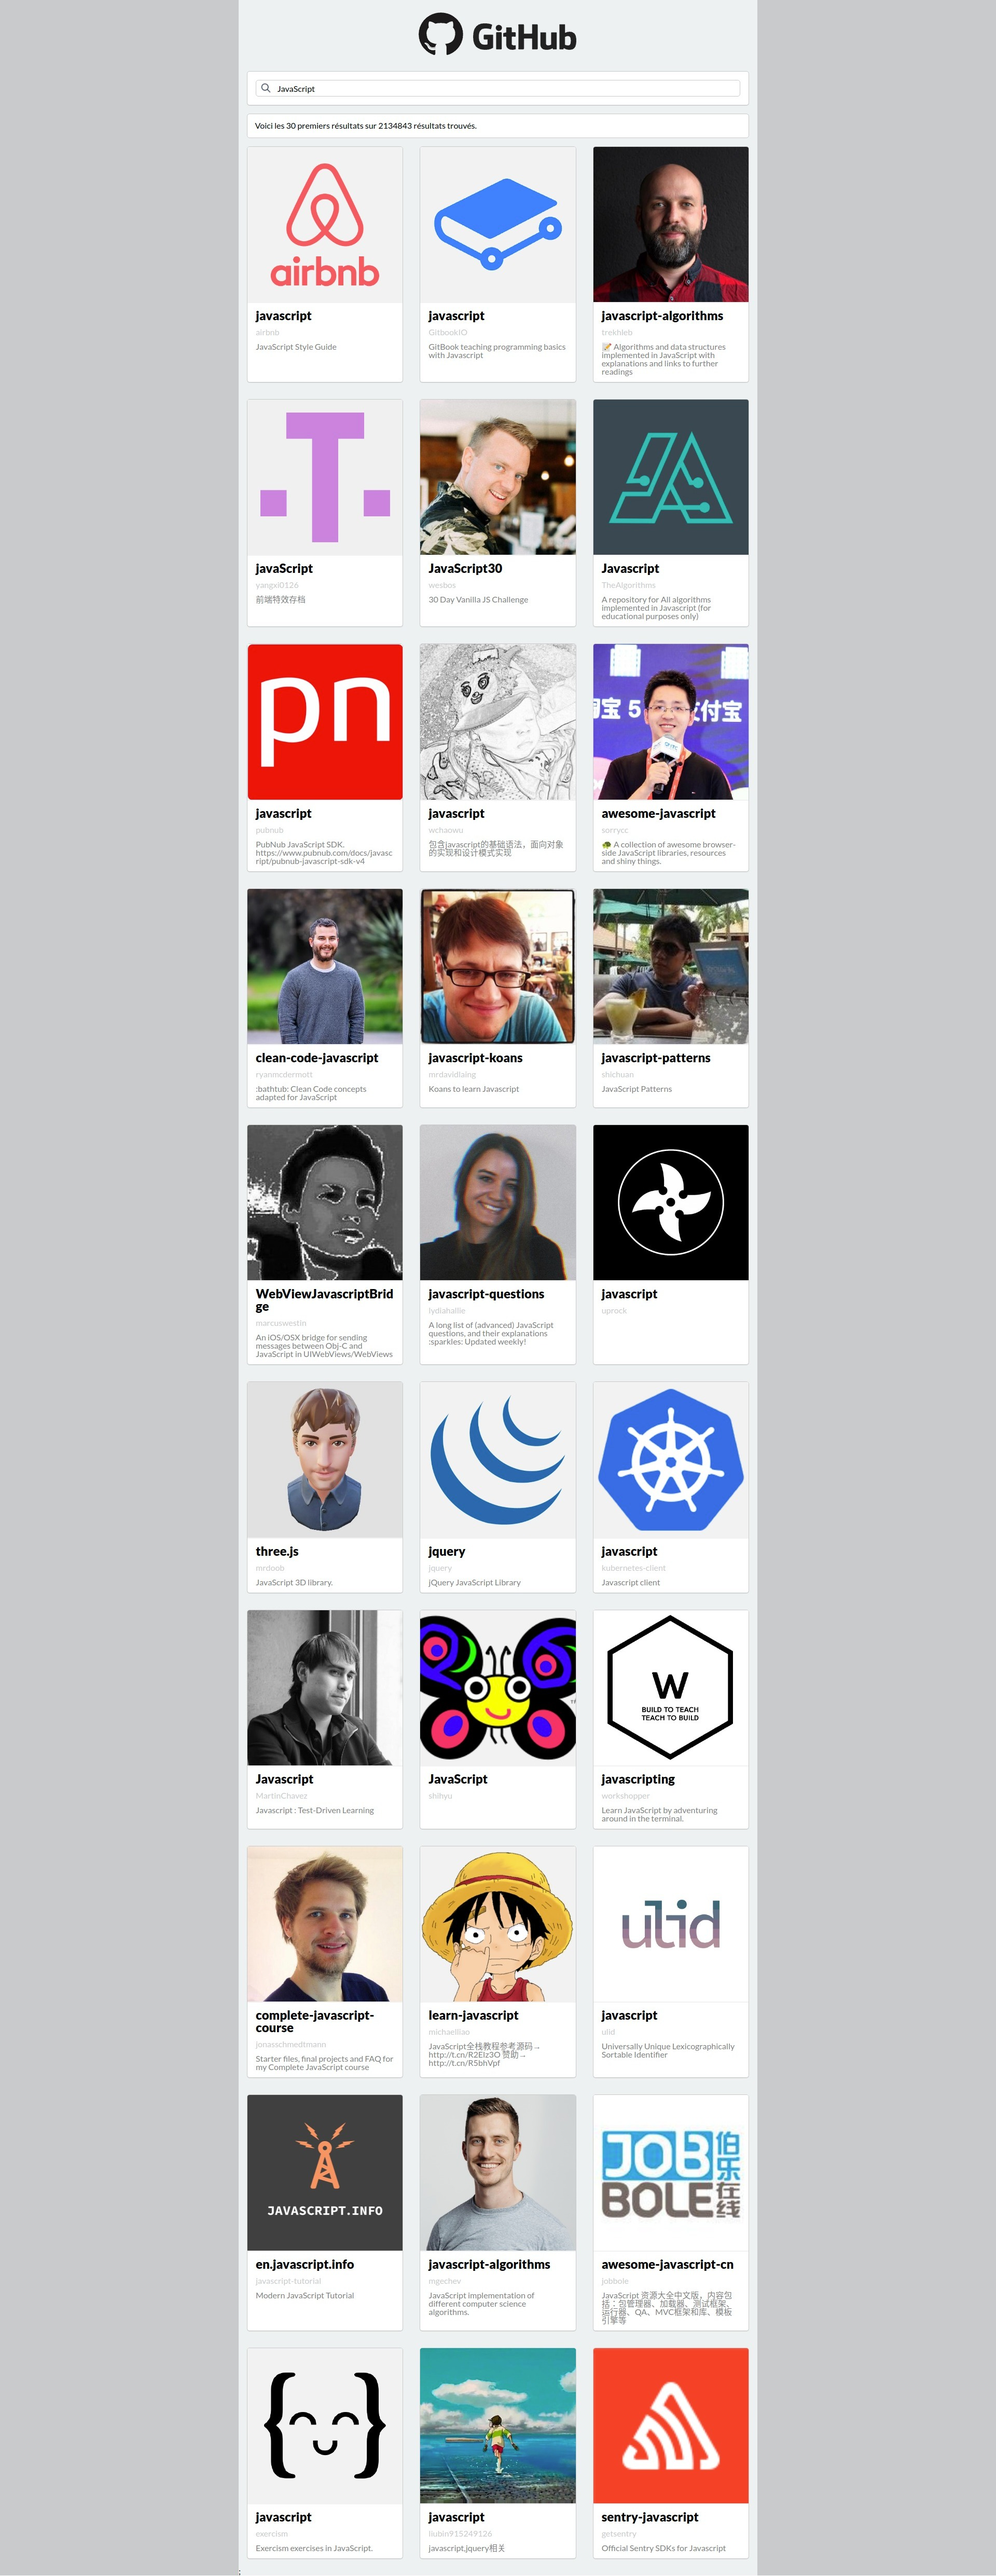
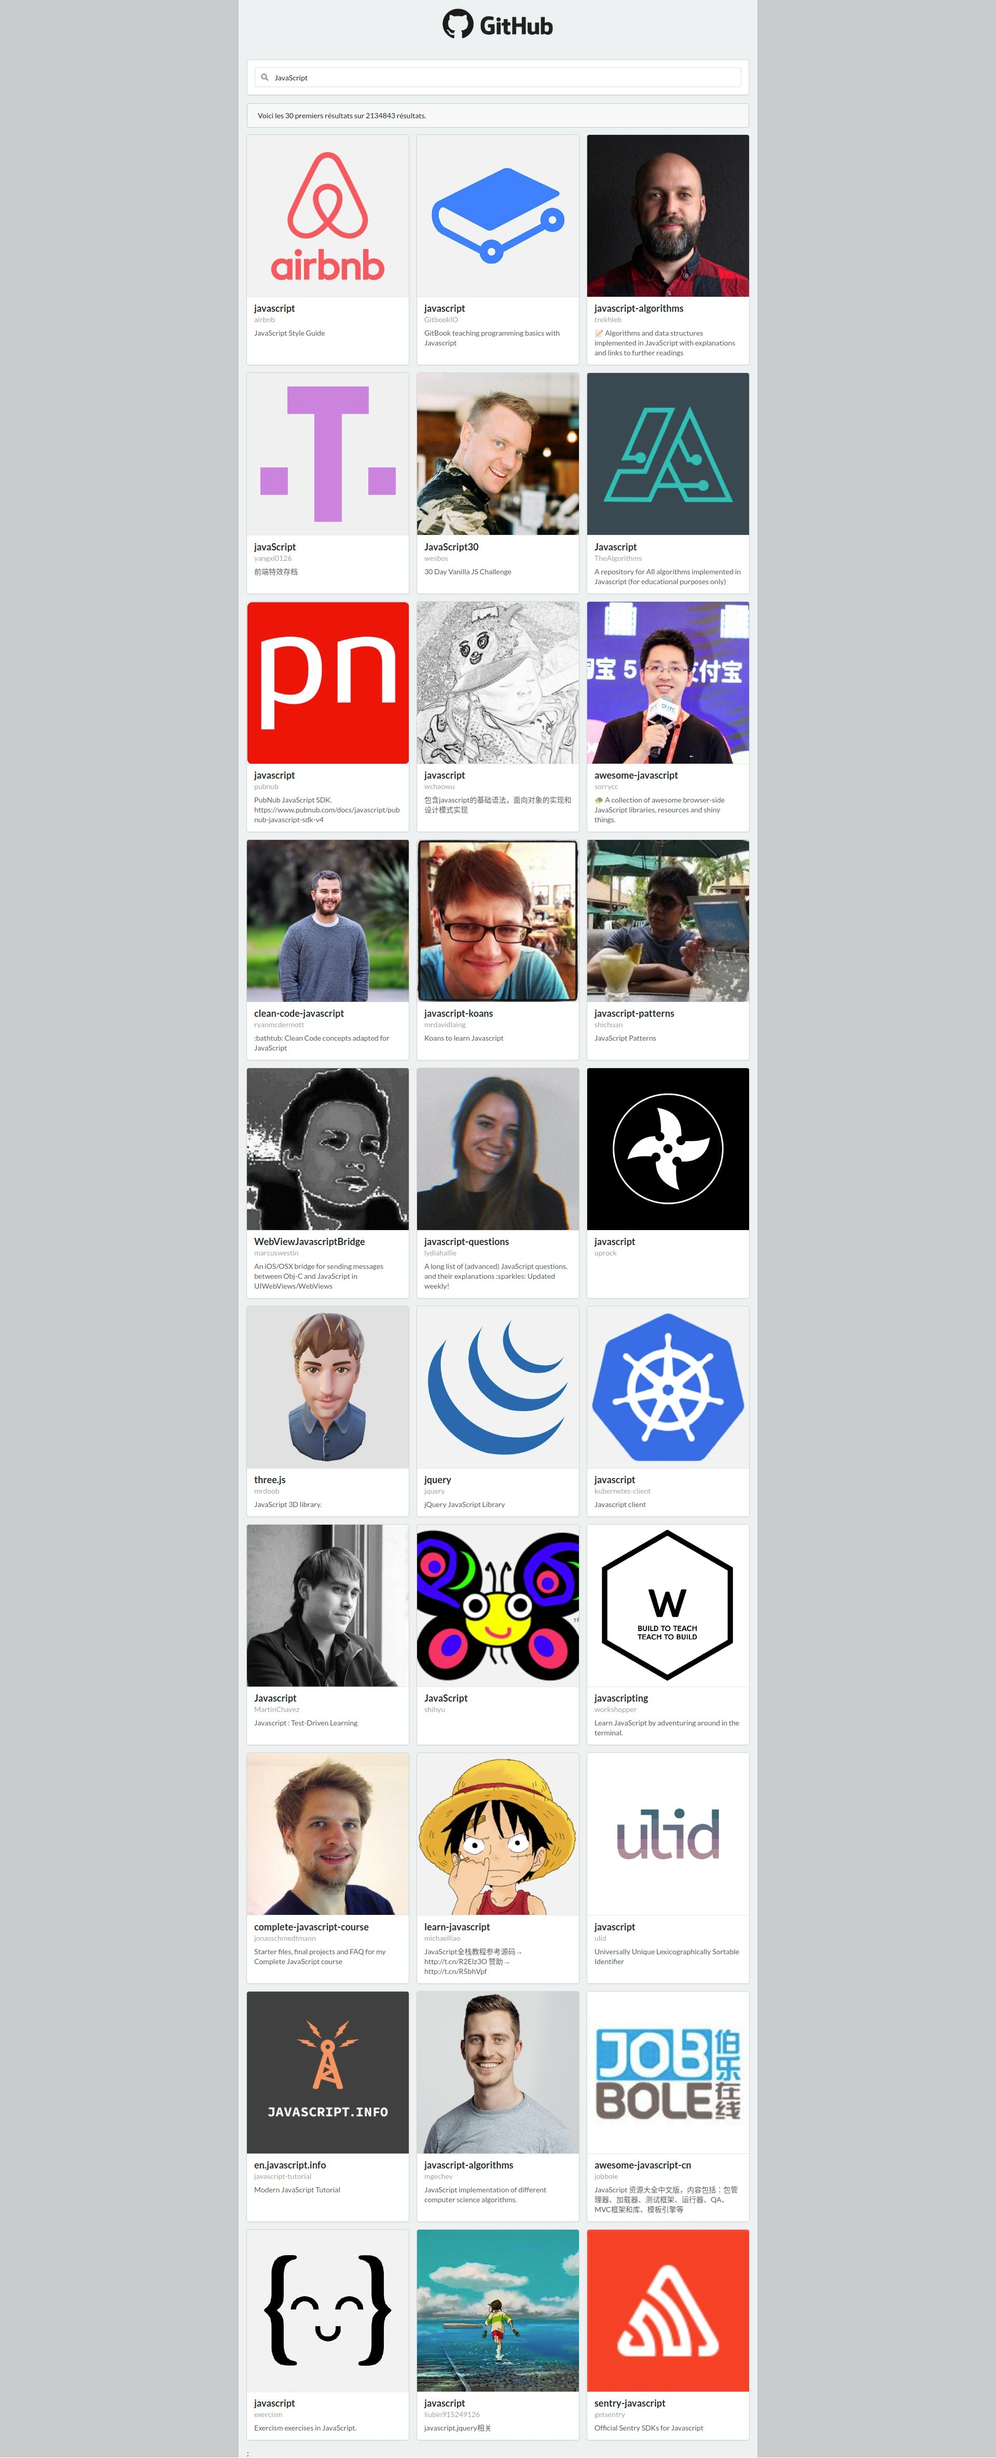
Added a sub-component Repo + a card component from semantic UI, updated screenshots in README.md

Changed region(s): [[0.25, 0.0, 0.75, 0.9996], [0.25, 0.9683, 0.3125, 0.9996]]

diff --git a/src/components/ReposResults/index.js b/src/components/ReposResults/index.js
@@ -1,6 +1,8 @@
 import React from 'react';
 import PropTypes from 'prop-types';
 
+import Repo from './Repo';
+
 import './reposResults.scss';
 
 const ReposResults = ({ reposItems }) => (
@@ -8,10 +10,7 @@ const ReposResults = ({ reposItems }) => (
     {reposItems.map((reposItem) => (
       <div className="reposResult" key={reposItem.id}>
         <a href={reposItem.html_url}>
-          <div className="reposResult__img"><img src={reposItem.owner.avatar_url} alt="avatar" /></div>
-          <h1 className="reposResult__title">{reposItem.name}</h1>
-          <h2 className="reposResult__subtitle">{reposItem.owner.login}</h2>
-          <p className="reposResult__description">{reposItem.description}</p>
+          <Repo {...reposItem} />
         </a>
       </div>
     ))};
@@ -22,13 +21,7 @@ ReposResults.propTypes = {
   reposItems: PropTypes.arrayOf(
     PropTypes.shape({
       id: PropTypes.number.isRequired,
-      url: PropTypes.string.isRequired,
-      name: PropTypes.string.isRequired,
-      description: PropTypes.string,
-      owner: PropTypes.shape({
-        avatar_url: PropTypes.string.isRequired,
-        login: PropTypes.string.isRequired,
-      }).isRequired,
+      html_url: PropTypes.string.isRequired,
     }).isRequired,
   ).isRequired,
 };

diff --git a/src/components/ReposResults/reposResults.scss b/src/components/ReposResults/reposResults.scss
@@ -4,43 +4,12 @@
   display: grid;
   grid-template-columns: repeat(3, minmax(180px, 1fr));
   grid-template-rows: auto;
+  gap: vars.$space-base * 2;
 
-  .reposResult {
-    background: vars.$white;
-    border: 1px solid vars.$grey-light;
-    margin: vars.$space-base * 2 ;
-    border-radius: vars.$radius;
-    overflow: hidden;
-    max-height: vars.$size-base * 15;
-    box-shadow: 0 1px vars.$grey-light-transparent;
-
-    &__img {
-      background: vars.$grey-very-lighter;
-    }
-
-    img {
-      width: 100%;
-    }
-
-    &__title, &__subtitle, &__description {
-      margin-inline: vars.$space-base * 2;
-      margin-block: vars.$space-base * 1.5;
-      word-wrap: break-word;
-    }
-
-    &__title {
-      font-weight: 900;
-      font-size: vars.$font-size-medium;
-    }
-
-    &__subtitle {
-      font-weight: 400;
-      color: vars.$grey_light;
-    }
-
-    &__description {
-      color: vars.$grey-lighter;
-    }
+  .reposResult__card.card {
+  width: 100%;
+  height: 100%;
+  word-wrap: break-word;
   }
 }
 

diff --git a/src/components/ReposResults/Repo.js b/src/components/ReposResults/Repo.js
@@ -1,0 +1,28 @@
+import React from 'react';
+import { Card, Image } from 'semantic-ui-react';
+import PropTypes from 'prop-types';
+
+const Repo = ({ name, description, owner }) => (
+  <Card className="reposResult__card card">
+    <Image src={owner.avatar_url} alt="avatar" wrapped ui={false} />
+    <Card.Content>
+      <Card.Header>{name}</Card.Header>
+      <Card.Meta>{owner.login}</Card.Meta>
+      <Card.Description>
+        {description}
+      </Card.Description>
+    </Card.Content>
+  </Card>
+);
+
+Repo.propTypes = {
+  name: PropTypes.string.isRequired,
+  // eslint-disable-next-line react/require-default-props
+  description: PropTypes.string,
+  owner: PropTypes.shape({
+    avatar_url: PropTypes.string.isRequired,
+    login: PropTypes.string.isRequired,
+  }).isRequired,
+};
+
+export default Repo;

diff --git a/src/components/App/styles.scss b/src/components/App/styles.scss
@@ -3,9 +3,14 @@
 .app {
   max-width: 1000px;
   margin-inline: auto;
+  padding-inline: vars.$space-base * 2 ;
   background: vars.$grey-very-light;
   
   &__title {
     text-align: center;
+
+    & img {
+      width: 250px;
+    }
   }
 }

diff --git a/src/components/SearchBar/searchBar.scss b/src/components/SearchBar/searchBar.scss
@@ -1,6 +1,5 @@
 @use 'src/styles/vars';
 
 .searchBar {
-  margin-inline: vars.$space-base * 2 ;
   margin-block-end: vars.$space-base * 2;
 }
